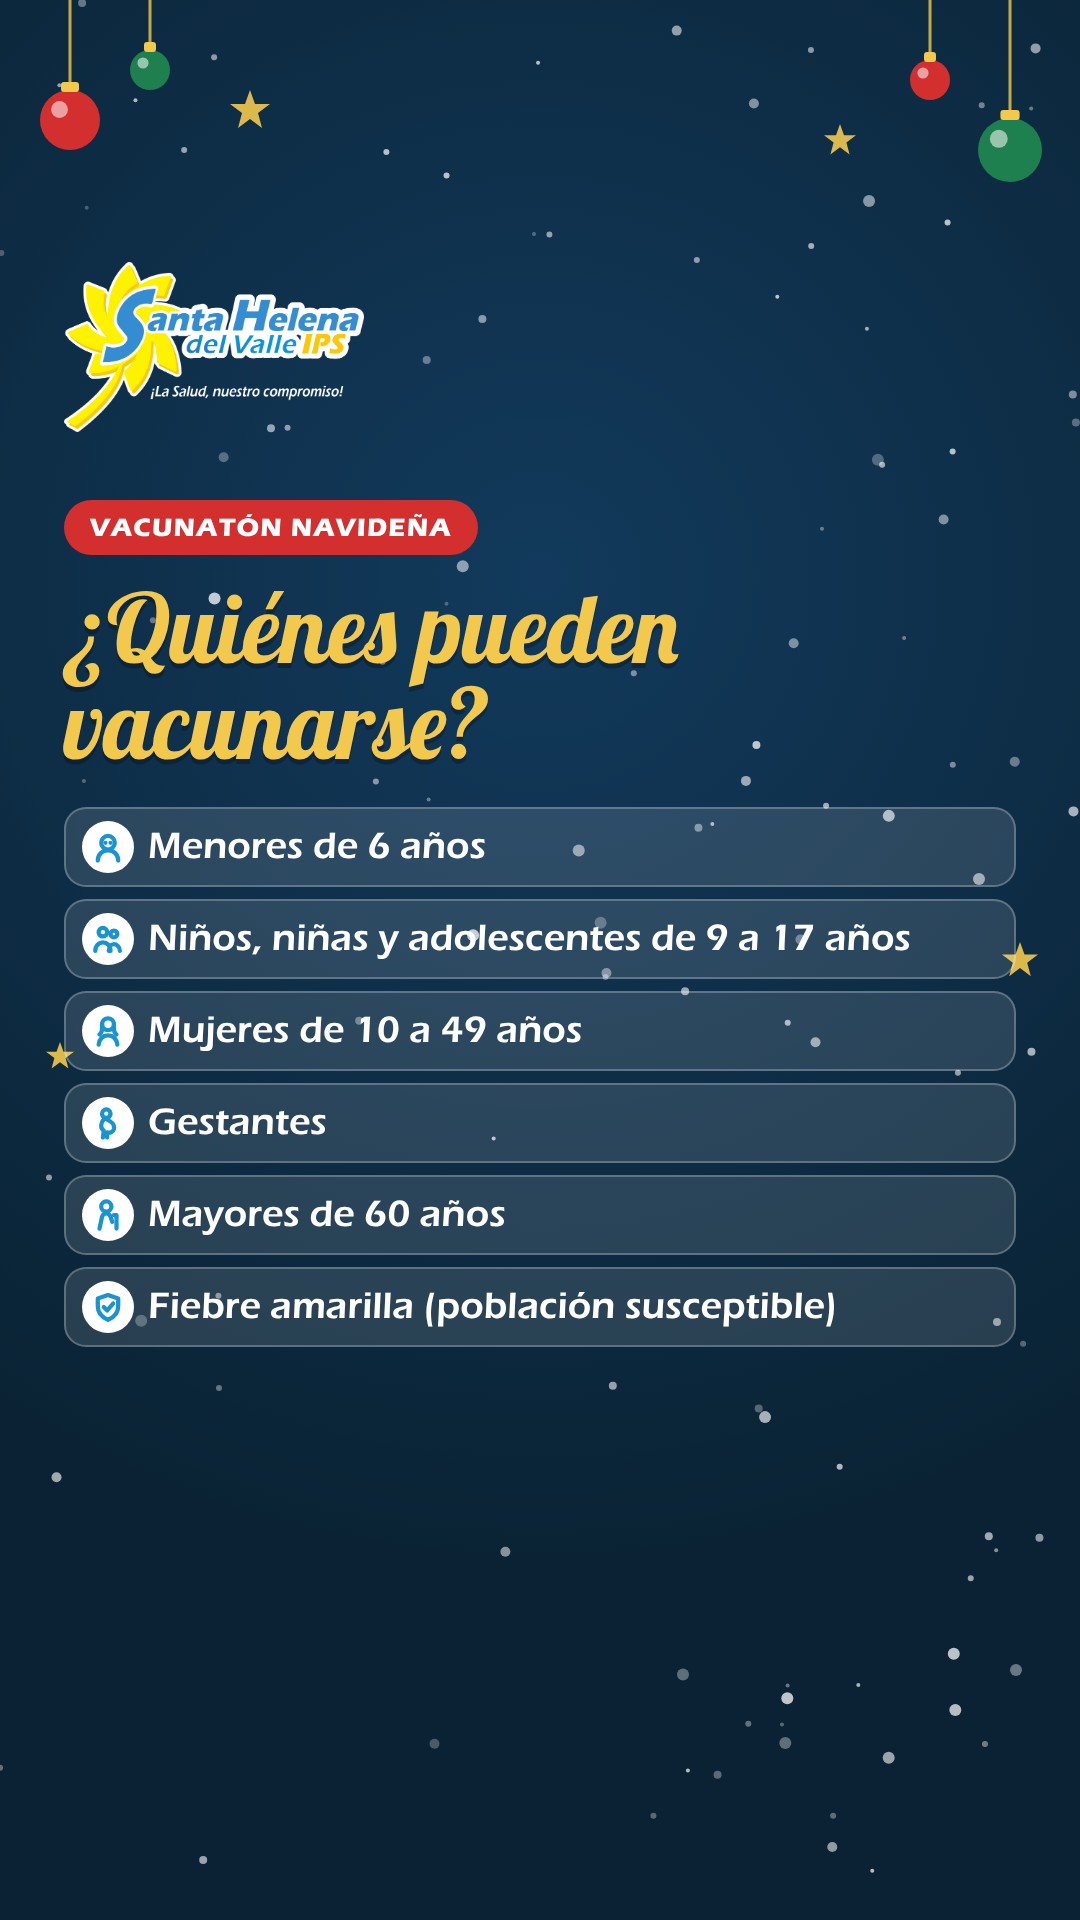
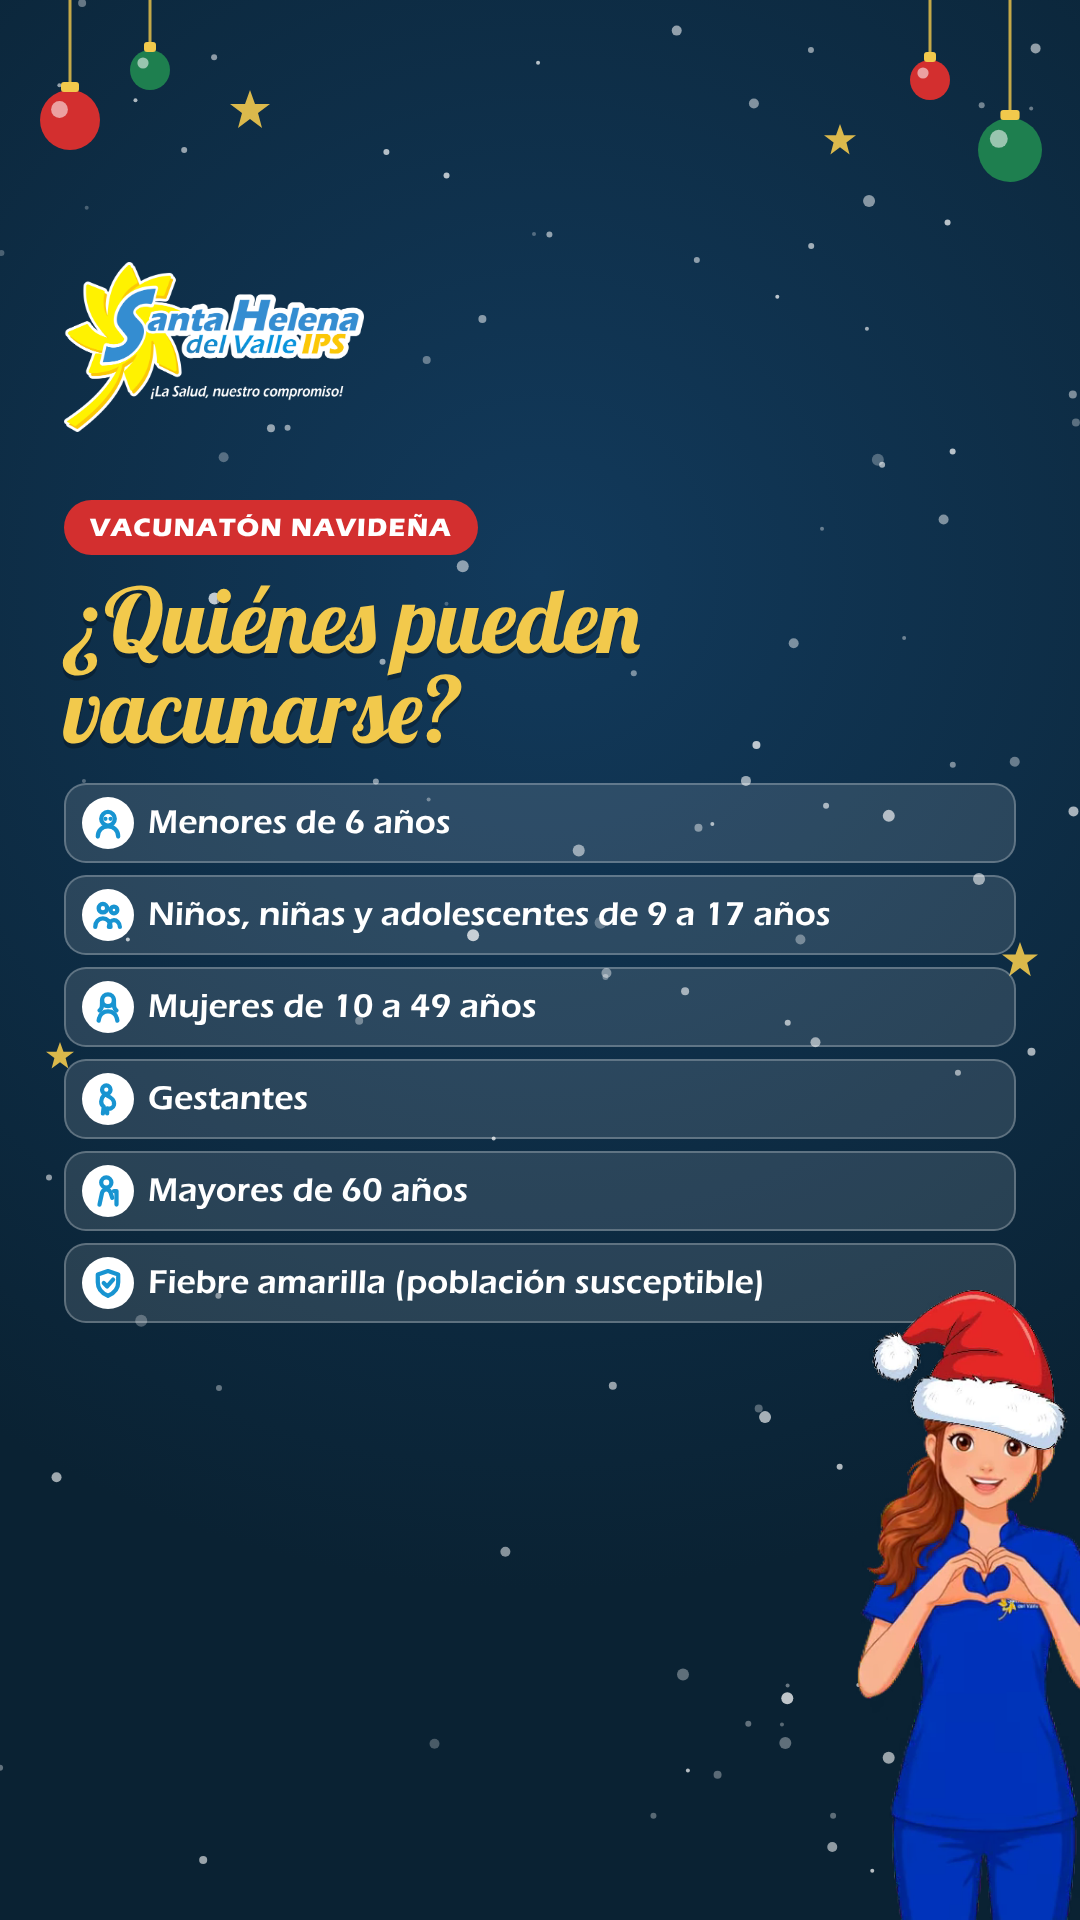
Vacunatón: Helenita más grande y pegada al borde inferior en las historias
Claude-Session: https://claude.ai/code/session_01KgBCaN2Nb7mn6jAyyriR7q

Changed region(s): [[0.0611, 0.2812, 1.0, 1.0]]

diff --git a/entregas/creativo-instagram/2026-11-26-vacunaton-navidena/fuente/piezas.html b/entregas/creativo-instagram/2026-11-26-vacunaton-navidena/fuente/piezas.html
@@ -96,12 +96,13 @@ if(P==='h1'){
  h+=`<div style="position:absolute;left:64px;right:64px;top:520px"><span class="enc">Jornada Nacional de Vacunación</span>
      <h1 style="font-size:${V==='A'?150:120}px;margin-top:24px">Vacunatón Navideña</h1>
      <p class="lema" style="margin-top:34px;font-size:46px;width:940px;text-align:left">Esta Navidad, el mejor regalo es estar protegidos. <b>¡Vacúnese!</b></p></div>`;
- h+=`<img class="hel" src="img/helenita-navidad.png" style="left:50%;transform:translateX(-50%);bottom:250px;height:640px">`;
+ h+=`<img class="hel" src="img/helenita-navidad.png" style="left:50%;transform:translateX(-50%);bottom:0;height:820px">`;
 }
 if(P==='h2'){
  h+=`<div style="position:absolute;left:64px;right:64px;top:500px"><span class="enc">Vacunatón Navideña</span>
-     <h1 style="font-size:${V==='A'?96:80}px;margin:24px 0 36px">¿Quiénes pueden vacunarse?</h1>
-     ${gruposHTML(38,952,1)}</div>`;
+     <h1 style="font-size:${V==="A"?90:76}px;margin:20px 0 28px">¿Quiénes pueden vacunarse?</h1>
+     ${gruposHTML(34,952,1)}</div>`;
+ h+=`<img class="hel" src="img/helenita-navidad.png" style="right:-30px;bottom:0;height:630px">`;
 }
 if(P==='h3'){
  h+=`<div style="position:absolute;left:64px;right:64px;top:480px"><span class="enc">Vacunatón Navideña</span>
@@ -110,7 +111,7 @@ if(P==='h3'){
      <span class="gratis" style="font-size:38px">Vacunación gratuita</span>
      <p class="lleve" style="font-size:32px;line-height:1.3;text-align:justify">Lleve su carné de vacunación y su documento de identidad.</p>
      <p class="esperamos" style="font-size:66px">¡Lo esperamos!</p></div></div>`;
- h+=`<img class="hel" src="img/helenita-navidad.png" style="right:-20px;bottom:230px;height:500px">`;
+ h+=`<img class="hel" src="img/helenita-navidad.png" style="right:-30px;bottom:0;height:780px">`;
 }
 if(P==='rec'){
  h+=`<div style="position:absolute;left:64px;right:64px;top:500px"><span class="enc">Recordatorio</span>
@@ -119,7 +120,7 @@ if(P==='rec'){
      <span class="gratis" style="font-size:36px">Vacunación gratuita</span>
      <p class="lleve" style="font-size:30px;line-height:1.3;text-align:justify">Lleve su carné y su documento. ¡Vacúnese!</p>
      <p class="esperamos" style="font-size:62px">¡Lo esperamos!</p></div></div>`;
- h+=`<img class="hel" src="img/helenita-navidad.png" style="right:-20px;bottom:230px;height:470px">`;
+ h+=`<img class="hel" src="img/helenita-navidad.png" style="right:-30px;bottom:0;height:760px">`;
 }
 pz.innerHTML=h;
 </script></body></html>

diff --git a/entregas/creativo-instagram/2026-11-26-vacunaton-navidena/LEAME.md b/entregas/creativo-instagram/2026-11-26-vacunaton-navidena/LEAME.md
@@ -11,3 +11,4 @@ Encargo directo del Agente Copies Redes con texto aprobado por Nicolas
   h3, rec); `node fuente/capturar.js` rehace todo.
 - Helenita: archivo oficial del Agente Helenita (`marca/helenita/animaciones/navidad/corazon-cuadro.png`, corazón con
   gorro, 26 nov). Para una historia animada está `corazon.webm` en esa misma carpeta.
+- Historias: Helenita más grande y pegada al borde inferior (pedido de Nicolas); también en la pantalla 2.
